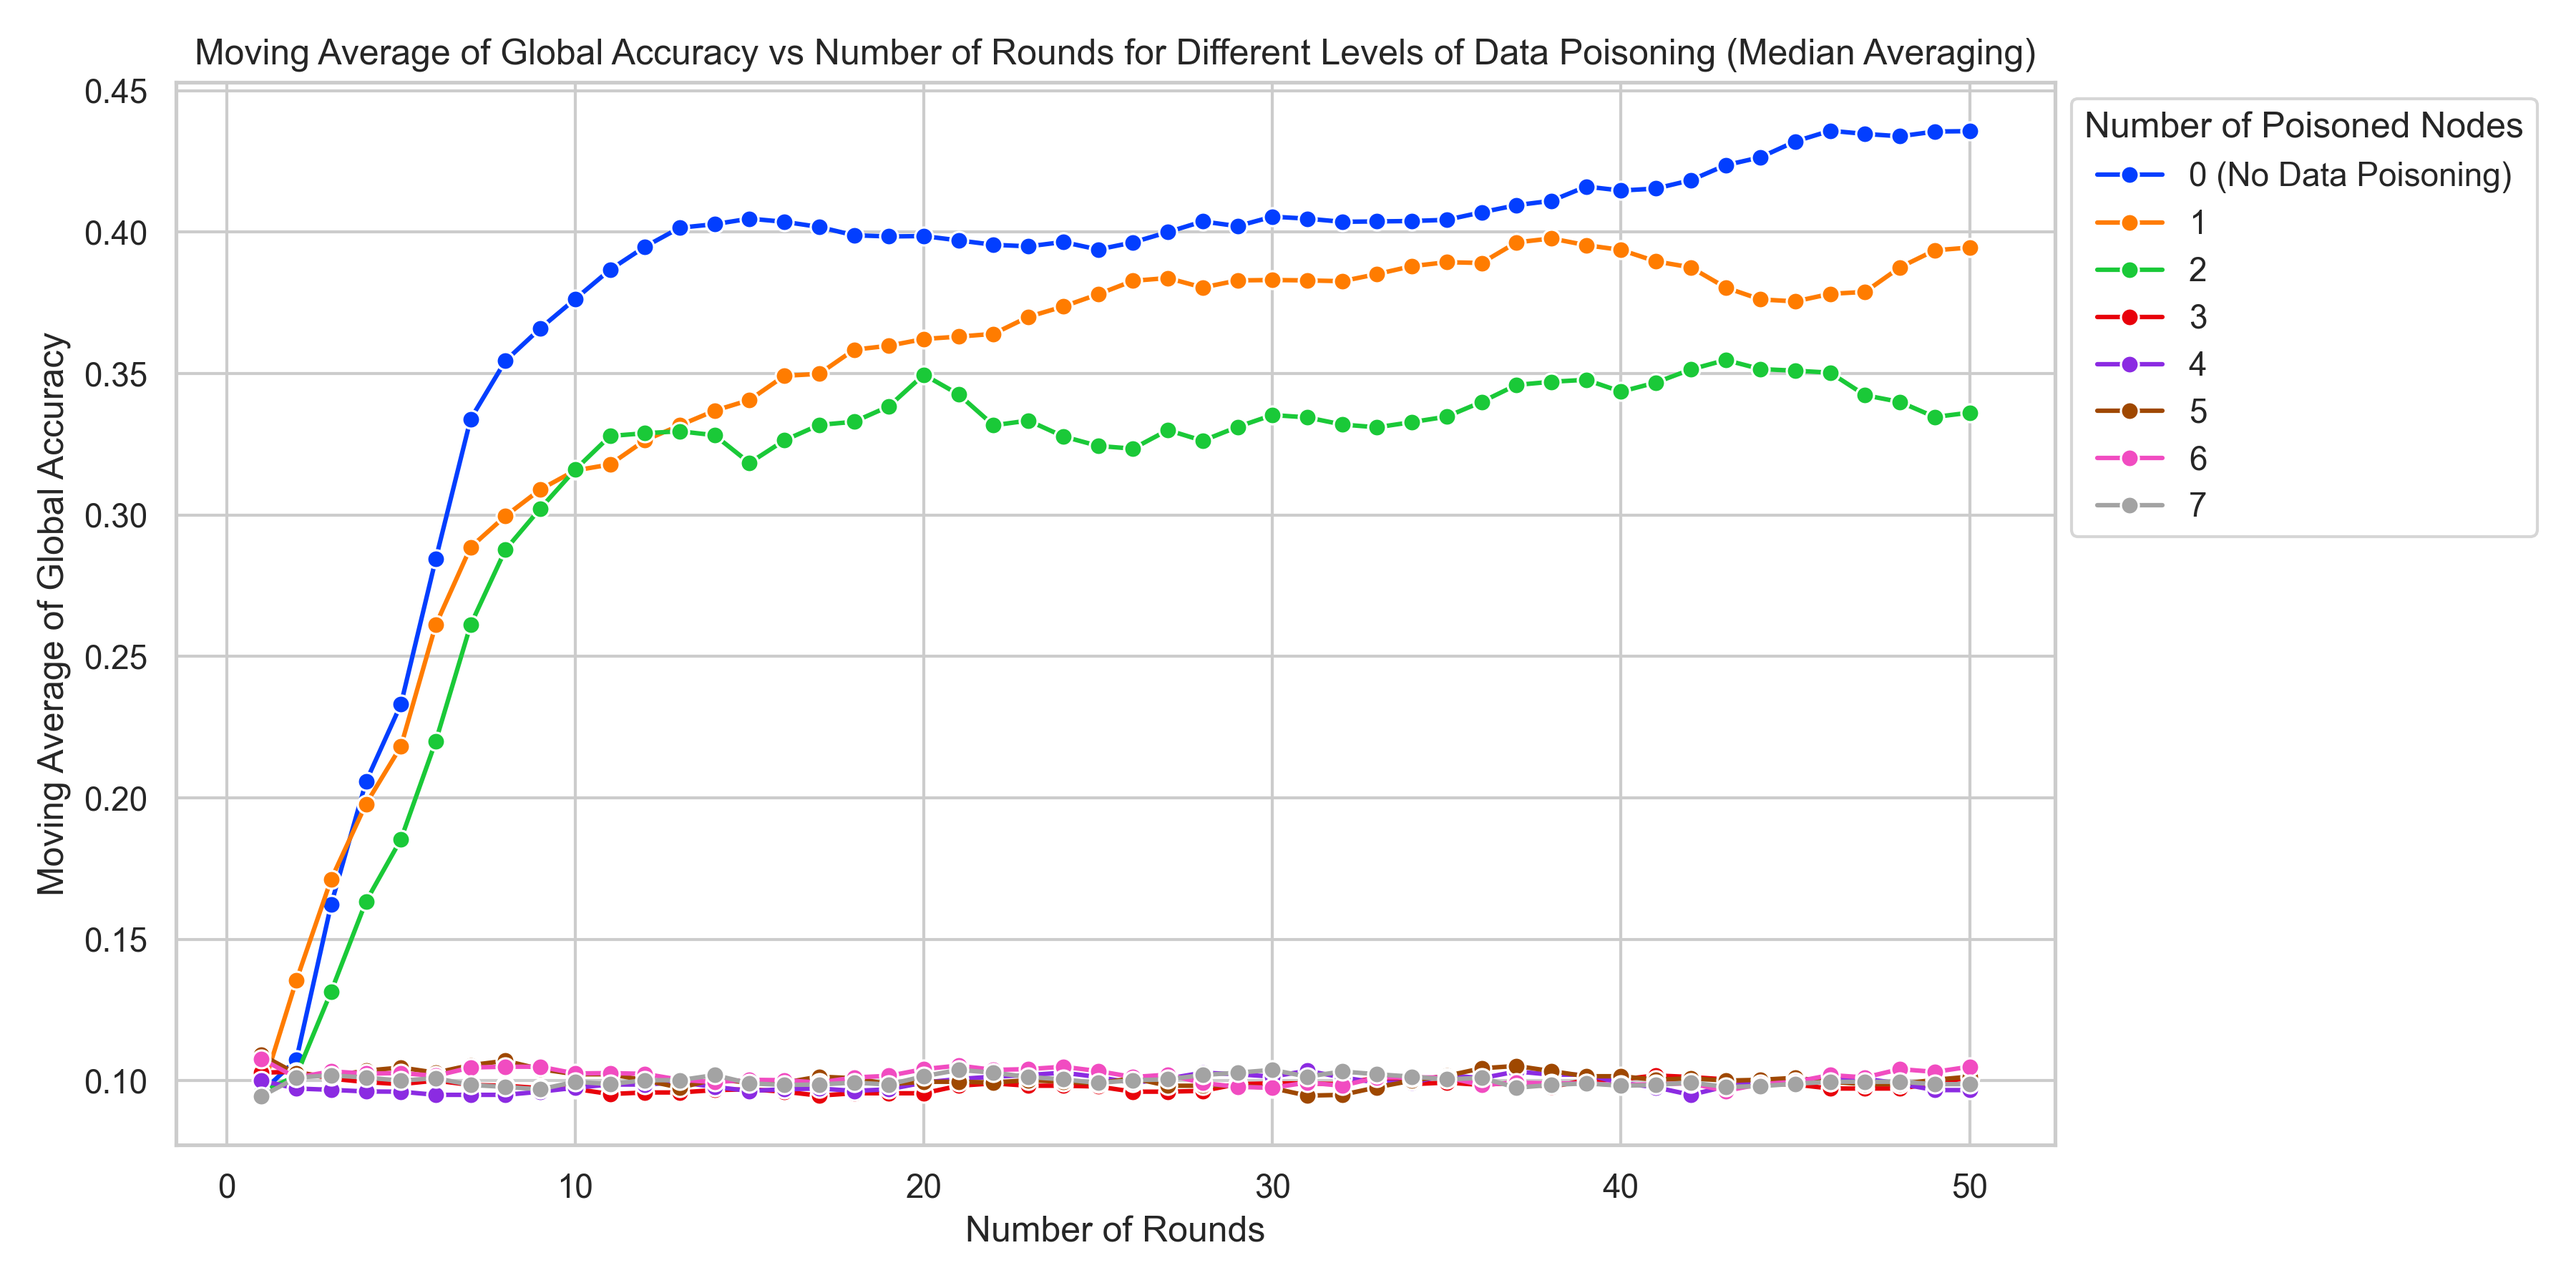
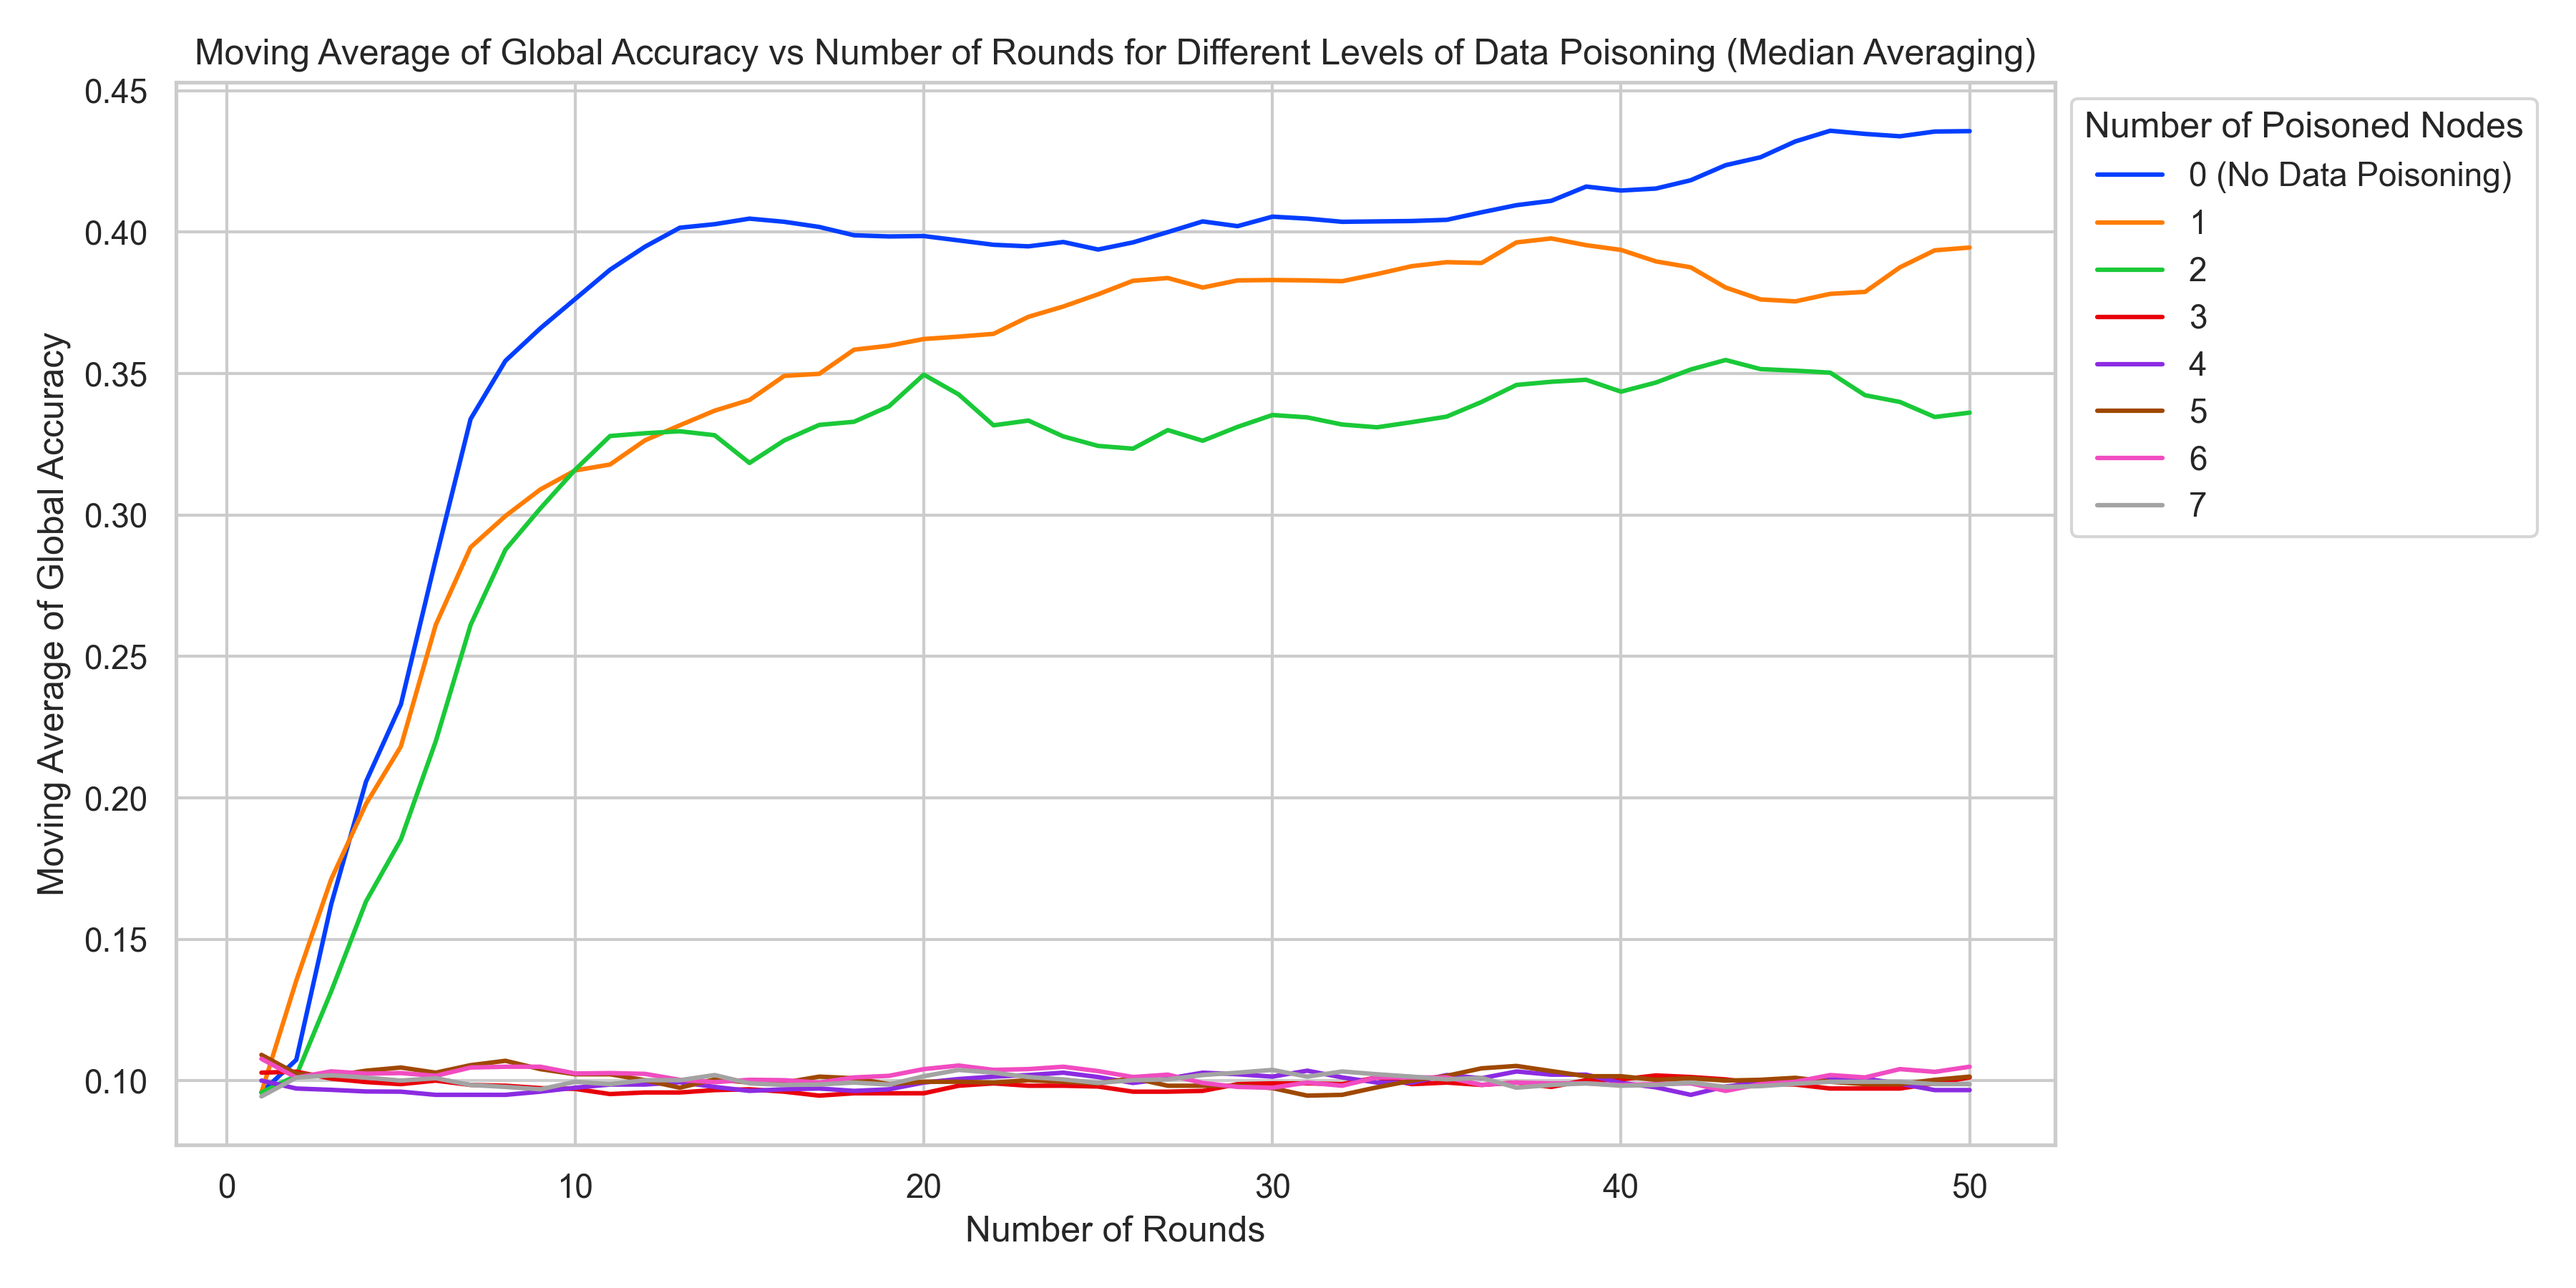
updated figures

diff --git a/Federated_Averaging_Manual/plot/plot_mean_data_poisoning.py b/Federated_Averaging_Manual/plot/plot_mean_data_poisoning.py
@@ -3,7 +3,7 @@ import seaborn as sns
 import matplotlib.pyplot as plt
 
 # Load the data
-file_path = "../results/weighted_mean_data_poison/weighted_mean_data_poison_7_cx3.csv"
+file_path = "../results/data_poison_results_5_clients.csv"
 data = pd.read_csv(file_path)
 
 data['Key Label'] = data['Number of Data Poisoned Clients'].apply(lambda x: f"{x} (No Data Poisoning)" if x == 0 else str(x))
@@ -30,7 +30,7 @@ sns.set(style="whitegrid")
 # plt.savefig("../figures/data_poisoning_plot_5_clients.png", dpi=300)
 
 # Calculate the moving average
-window = 5
+window = 10
 data['Moving Average'] = data.groupby('Key Label')['Global Accuracy'].transform(lambda x: x.rolling(window=window, min_periods=1).mean())
 
 # Plot the moving average
@@ -40,7 +40,7 @@ sns.lineplot(
     x="Round", 
     y="Moving Average", 
     hue="Key Label", 
-    marker="o",
+    # marker="o",
     palette="bright"
 )
 
@@ -49,4 +49,4 @@ plt.xlabel("Number of Rounds")
 plt.ylabel("Moving Average of Global Accuracy")
 plt.legend(title="Number of Poisoned Nodes", bbox_to_anchor=(1, 1), loc='upper left')
 plt.tight_layout()
-plt.savefig("../figures/weighted_mean_data_poison_7_cx3.png", dpi=300)
+plt.savefig("../figures/mean/no_prob/data_poisoning_moving_avg_plot_5_clients.png", dpi=300)

diff --git a/Federated_Averaging_Manual/plot/plot_trimmed_mean_model_poison.py b/Federated_Averaging_Manual/plot/plot_trimmed_mean_model_poison.py
@@ -3,7 +3,7 @@ import pandas as pd
 import seaborn as sns
 
 # Load the data
-file_path = "../results/trimmed_mean_model_poison_10_clients_0.2.csv"
+file_path = "../results/trimmed_mean_model_poison_10_clients_0.1.csv"
 data = pd.read_csv(file_path)
 
 data['Key Label'] = data['Number of Model Poisoned Clients'].apply(lambda x: f"{x} (No Model Poisoning)" if x == 0 else str(x))
@@ -41,14 +41,14 @@ sns.lineplot(
     x="Round",
     y="Moving Average",
     hue="Key Label",
-    marker="o",
+    # marker="o",
     palette="bright"
 )
 
-plt.title("Moving Average of Global Accuracy vs Number of Rounds for Different Levels of Model Poisoning (Trimmed Mean Averaging)")
+plt.title("Moving Average of Global Accuracy vs Number of Rounds for Different Levels of Model Poisoning (Trimmed Mean Averaging - Trim Ratio 0.1)")
 plt.xlabel("Number of Rounds")
 plt.ylabel("Moving Average of Global Accuracy")
 plt.legend(title="Number of Poisoned Nodes", bbox_to_anchor=(1, 1), loc='upper left')
 plt.tight_layout()
-plt.savefig("../figures/trimmed_mean_moving_avg_model_poison_10_clients_0.2.png", dpi=300)
+plt.savefig("../figures/trimmed_mean/trimmed_mean_moving_avg_model_poison_10_clients_0.1.png", dpi=300)
 # plt.show()

diff --git a/Federated_Averaging_Manual/plot/plot_trimmed_mean_data_poison.py b/Federated_Averaging_Manual/plot/plot_trimmed_mean_data_poison.py
@@ -3,7 +3,7 @@ import pandas as pd
 import seaborn as sns
 
 # Load the data
-file_path = "../results/trimmed_mean_data_poison_10_clients.csv"
+file_path = "../results/trimmed_mean_data_poison_10_clients_0.1.csv"
 data = pd.read_csv(file_path)
 
 data['Key Label'] = data['Number of Data Poisoned Clients'].apply(lambda x: f"{x} (No Data Poisoning)" if x == 0 else str(x))
@@ -41,14 +41,14 @@ sns.lineplot(
     x="Round",
     y="Moving Average",
     hue="Key Label",
-    marker="o",
+    # marker="o",
     palette="bright"
 )
 
-plt.title("Moving Average of Global Accuracy vs Number of Rounds for Different Levels of Data Poisoning (Trimmed Mean Averaging)")
+plt.title("Moving Average of Global Accuracy vs Number of Rounds for Different Levels of Data Poisoning (Trimmed Mean Averaging - Trim Ratio 0.1)")
 plt.xlabel("Number of Rounds")
 plt.ylabel("Moving Average of Global Accuracy")
 plt.legend(title="Number of Poisoned Nodes", bbox_to_anchor=(1, 1), loc='upper left')
 plt.tight_layout()
-plt.savefig("../figures/trimmed_mean_moving_avg_data_poison_10_clients.png", dpi=300)
+plt.savefig("../figures/trimmed_mean/trimmed_mean_moving_avg_data_poison_10_clients_0.1.png", dpi=300)
 # plt.show()

diff --git a/Federated_Averaging_Manual/plot/plot_mean_model_poisoning.py b/Federated_Averaging_Manual/plot/plot_mean_model_poisoning.py
@@ -30,7 +30,7 @@ data['Scale Factor Label'] = data['Scale Factor'].apply(lambda x: f"{x} (No Mode
 # plt.savefig("../figures/model_poisoning_plot.png", dpi=300)
 
 # Calculate the moving average
-window = 5
+window = 10
 data['Moving Average'] = data.groupby('Scale Factor')['Global Accuracy'].transform(lambda x: x.rolling(window=window, min_periods=1).mean())
 
 # Plot the moving average of accuracy against the number of rounds for different scale factors
@@ -40,13 +40,13 @@ sns.lineplot(
     x="Round", 
     y="Moving Average", 
     hue="Scale Factor Label", 
-    marker="o",
+    # marker="o",
     palette="bright"
 )
 
 # Add plot labels and title
-plt.title("Global Accuracy (Moving Average) vs Number of Rounds for Different Scale Factors")
+plt.title("Global Accuracy (Moving Average) vs Number of Rounds for Different Scale Factors in Model Poisoning")
 plt.xlabel("Number of Rounds")
 plt.ylabel("Global Accuracy (Moving Average)")
 plt.legend(title="Scale Factor")
-plt.savefig("../figures/model_poisoning_moving_avg_plot_5_clients.png", dpi=300)
+plt.savefig("../figures/mean/no_prob/model_poisoning_moving_avg_plot_5_clients.png", dpi=300)

diff --git a/Federated_Averaging_Manual/plot/plot_median_model_poison.py b/Federated_Averaging_Manual/plot/plot_median_model_poison.py
@@ -3,7 +3,7 @@ import pandas as pd
 import seaborn as sns
 
 # Load the data
-file_path = "../results/median_model_poison_7_clients.csv"
+file_path = "../results/median_model_poison_5_clients.csv"
 data = pd.read_csv(file_path)
 
 data['Key Label'] = data['Number of Model Poisoned Clients'].apply(lambda x: f"{x} (No Model Poisoning)" if x == 0 else str(x))
@@ -41,7 +41,7 @@ sns.lineplot(
     x="Round",
     y="Moving Average",
     hue="Key Label",
-    marker="o",
+    # marker="o",
     palette="bright"
 )
 
@@ -50,5 +50,5 @@ plt.xlabel("Number of Rounds")
 plt.ylabel("Moving Average of Global Accuracy")
 plt.legend(title="Number of Poisoned Nodes", bbox_to_anchor=(1, 1), loc='upper left')
 plt.tight_layout()
-plt.savefig("../figures/median_moving_avg_model_poison_7_clients.png", dpi=300)
+plt.savefig("../figures/median/no_prob/median_moving_avg_model_poison_5_clients.png", dpi=300)
 plt.show()

diff --git a/Federated_Averaging_Manual/plot/plot_no_attack.py b/Federated_Averaging_Manual/plot/plot_no_attack.py
@@ -3,7 +3,7 @@ import matplotlib.pyplot as plt
 import seaborn as sns
 
 # Load the data
-file_path = "../results/no_attack_results_5_clients.csv"
+file_path = "../results/no_attack_results_10_clients.csv"
 data = pd.read_csv(file_path)
 
 # Plot the data
@@ -36,7 +36,7 @@ sns.lineplot(
     x="Round",
     y="Moving Average",
     hue="Number of Epochs",
-    marker="o",
+    # marker="o",
     palette="bright"
 )
 
@@ -44,4 +44,4 @@ plt.title("Moving Average of Global Accuracy vs Number of Rounds")
 plt.xlabel("Number of Rounds")
 plt.ylabel("Moving Average of Global Accuracy")
 plt.legend(title="Number of Epochs per Round", bbox_to_anchor=(1.05, 1), loc='upper left')
-plt.savefig("../figures/no_attack_moving_average_plot_5_clients.png", bbox_inches='tight', dpi=300)
+plt.savefig("../figures/no_attack/no_attack_raw_plot_10_clients.png", bbox_inches='tight', dpi=300)

diff --git a/Federated_Averaging_Manual/plot/plot_median_data_poison.py b/Federated_Averaging_Manual/plot/plot_median_data_poison.py
@@ -40,7 +40,7 @@ sns.lineplot(
     x="Round", 
     y="Moving Average", 
     hue="Key Label", 
-    marker="o",
+    # marker="o",
     palette="bright"
 )
 
@@ -49,5 +49,5 @@ plt.xlabel("Number of Rounds")
 plt.ylabel("Moving Average of Global Accuracy")
 plt.legend(title="Number of Poisoned Nodes", bbox_to_anchor=(1, 1), loc='upper left')
 plt.tight_layout()
-plt.savefig("../figures/median_moving_avg_data_poison_7_clients.png", dpi=300)
+plt.savefig("../figures/median/no_prob/median_moving_avg_data_poison_7_clients.png", dpi=300)
 plt.show()
